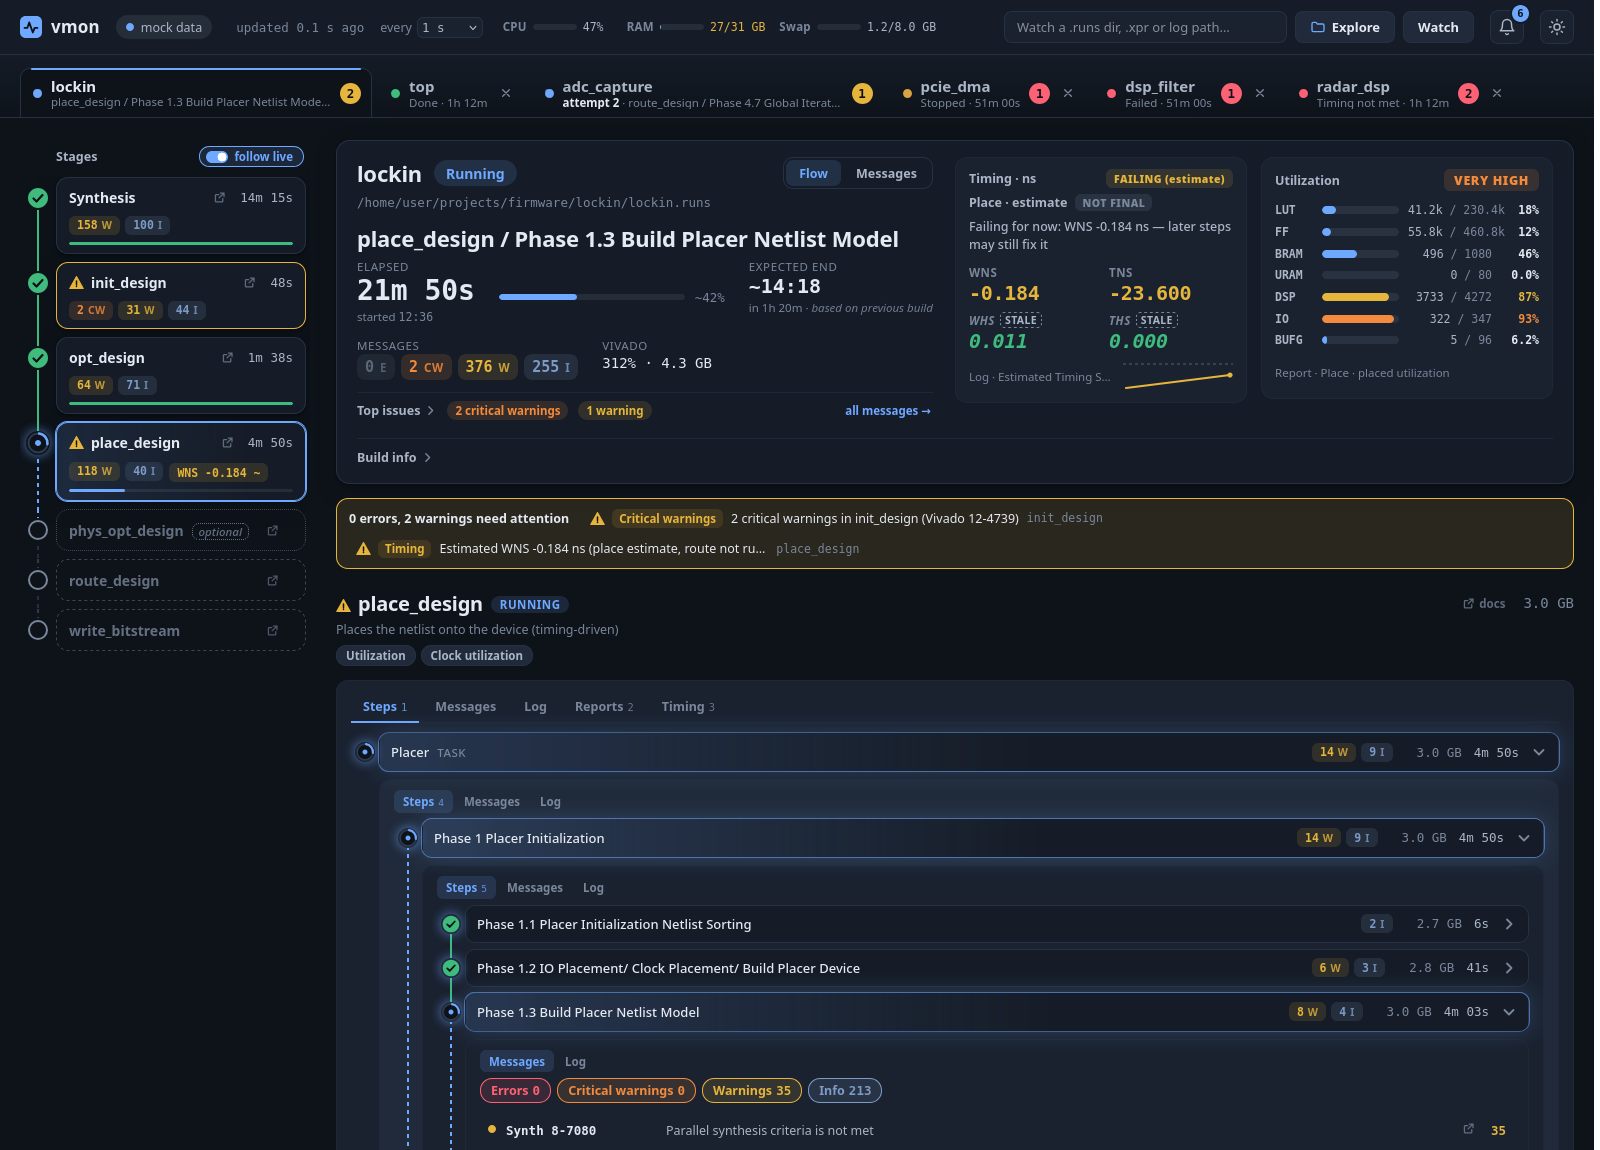
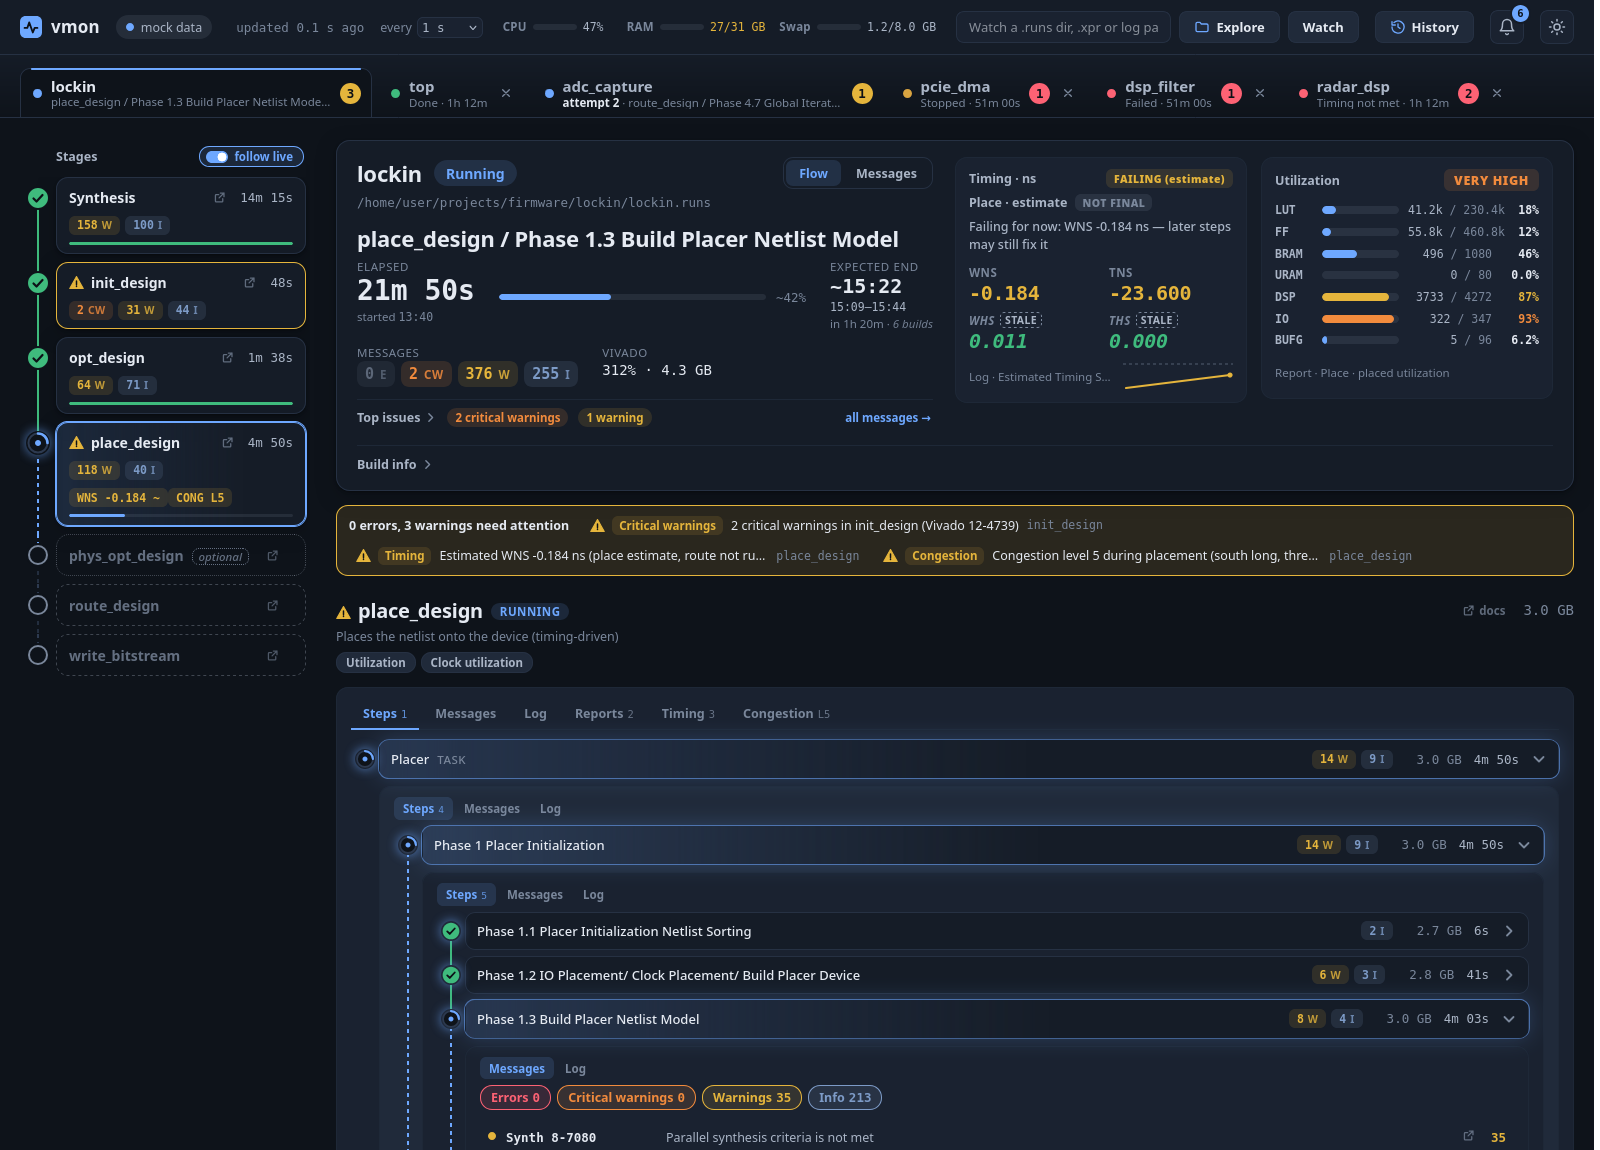
Document congestion, ETA band and build history in the README
Adds feature bullets, the `h` shortcut, and screenshots of the build
history page and the route congestion tab; refreshes the overview.

diff --git a/README.md b/README.md
@@ -16,15 +16,21 @@ Live web monitor for Xilinx Vivado builds: see which step and phase is running, 
 - **Router convergence chart** (overlaps and slack per iteration, live) and an alert when the router stalls or diverges.
 - **Alerts** with browser notifications, and an in-app event log.
 - **Message triage**: severity, rules, keywords, rarity and "new since last build" scoring; pin or mute any message id.
-- **ETA** from the previous build of the same firmware.
+- **ETA with a confidence band**: per-step and per-phase durations learned from the last 20 builds of the same firmware (medians, p10-p90 range); steps never seen are sized from the catalog.
+- **Congestion summary** for place and route: placer and router congestion levels per direction, final max congestion, router overlaps per iteration; a chip and an alert from level 5.
+- **Build history page**: every finished build with date, duration, outcome, final WNS/WHS, utilization, and links to its reports and `.bit` (only while the files still belong to that build).
 - **Build info**: part, board, strategies, directives; links to AMD documentation.
 - **System CPU / RAM / swap** meters, sticky summary, folder explorer to add runs.
-- **Keyboard**: `1`-`9` firmware tabs, `f`/`m`/`t` views, `j`/`k` stages, `n` next alert, `c` collapse all, `?` help; arrow keys on the tab strip.
+- **Keyboard**: `1`-`9` firmware tabs, `f`/`m`/`t` views, `j`/`k` stages, `n` next alert, `c` collapse all, `h` build history, `?` help; arrow keys on the tab strip.
 - No AI: pure log parsing. Read-only. Python standard library only.
 
 | Messages triage | Light theme, finished build | Narrow window |
 |---|---|---|
 | ![Messages](docs/img/messages.png) | ![Light theme](docs/img/light-theme.png) | <img src="docs/img/narrow.png" alt="Narrow window: stages as one tree" width="240"> |
+
+| Build history | Congestion (route) |
+|---|---|
+| ![Build history](docs/img/history.png) | ![Congestion](docs/img/congestion.png) |
 
 ## Requirements
 
